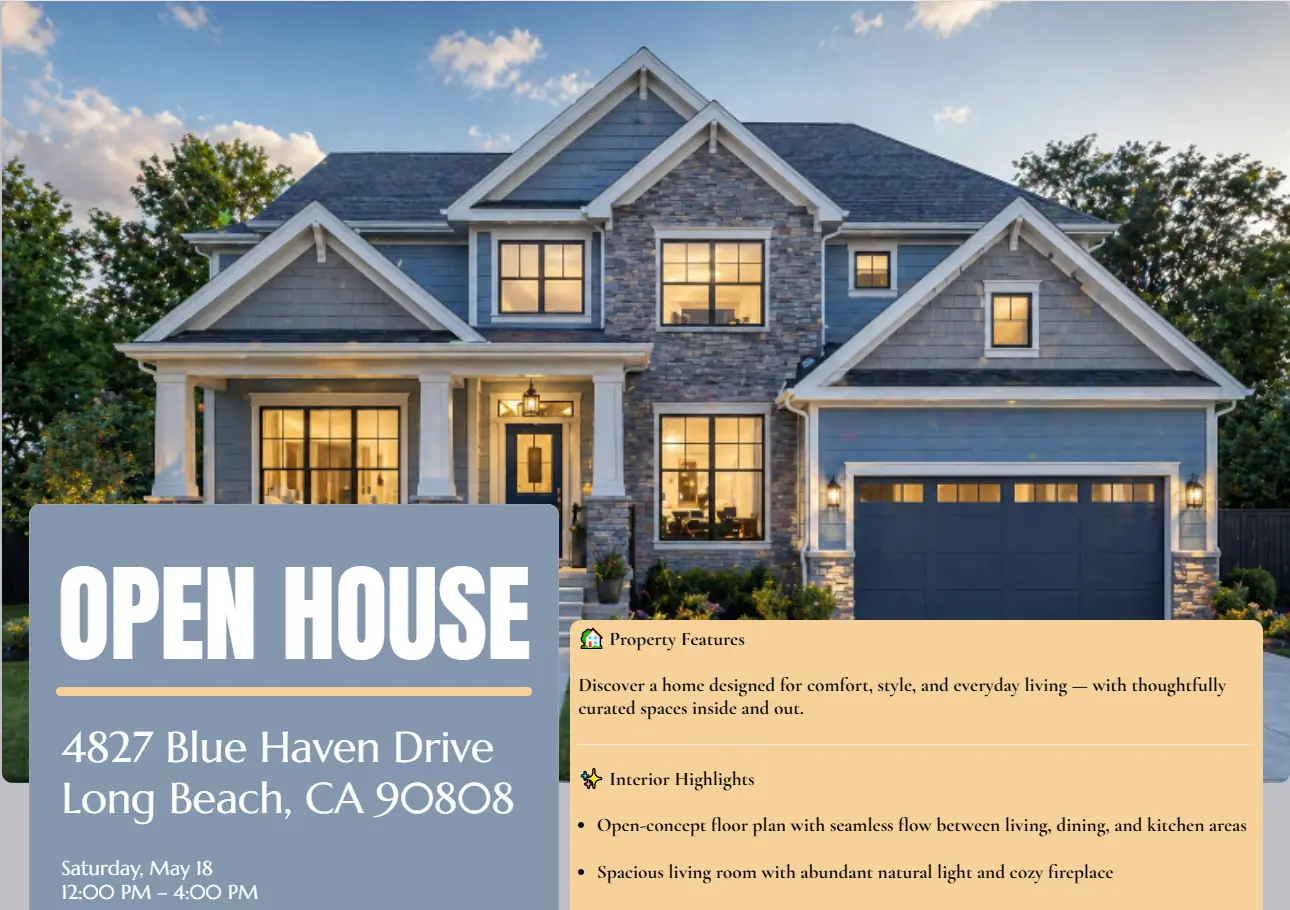
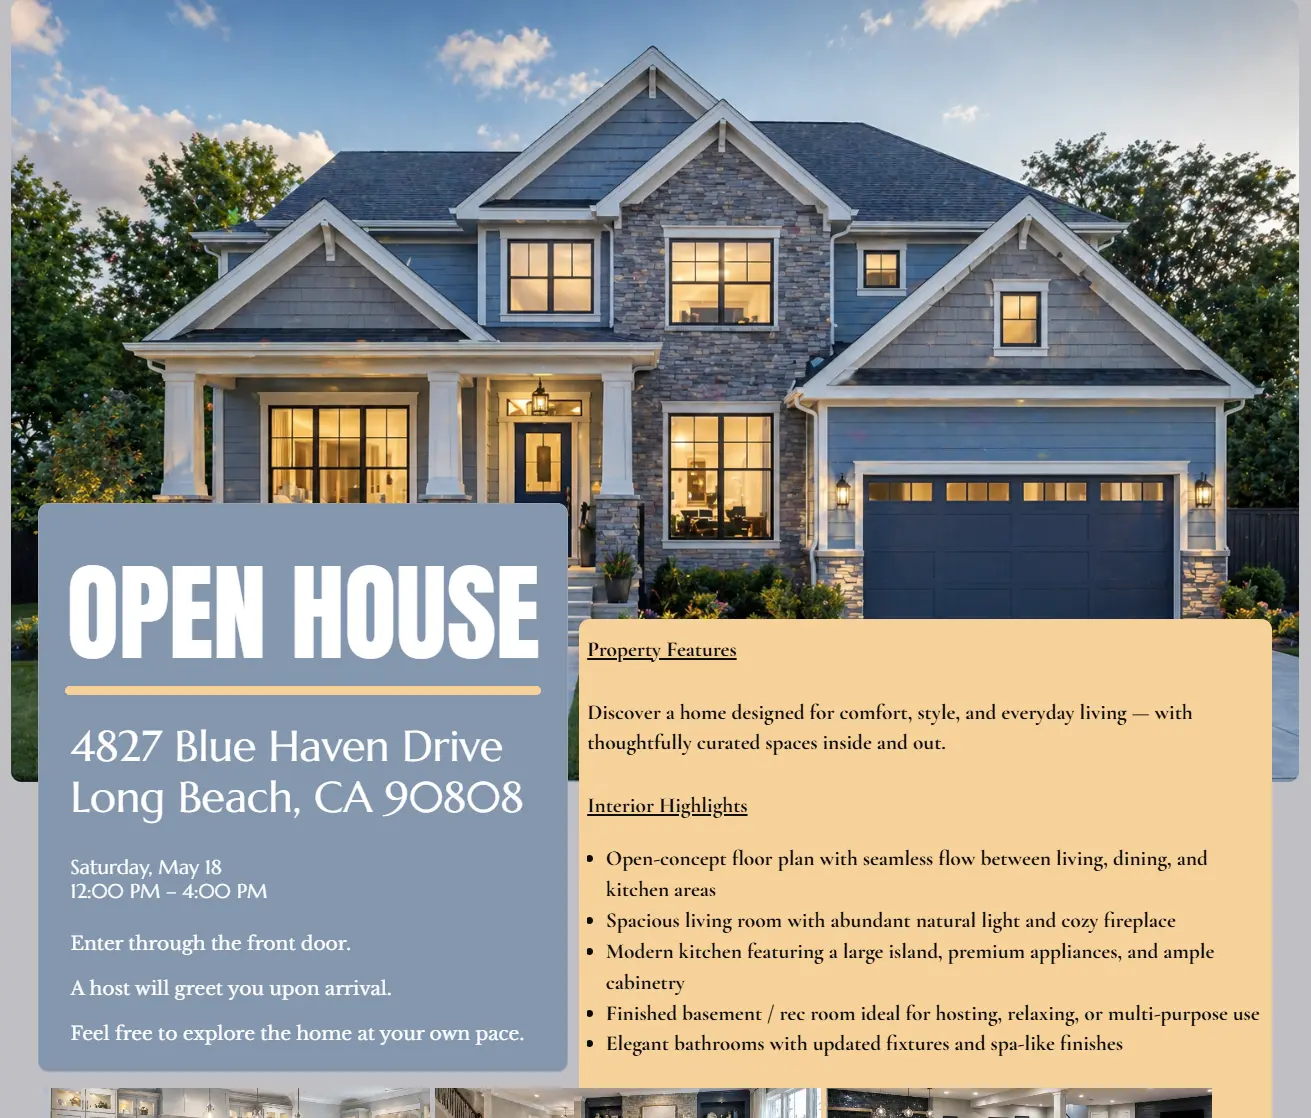
Update Push Commits

diff --git a/components/preview/BlockRenderer.tsx b/components/preview/BlockRenderer.tsx
@@ -17989,35 +17989,37 @@ lineHeight: optionTextStyle.lineHeight,
 {(() => {
   const rendered: React.ReactNode[] = [];
 
-  /*
-   * Heading always belongs at the top of the RSVP form,
-   * regardless of elementOrder.
-   */
-  if (!hidden.has("heading")) {
-    rendered.push(
-      renderElement(
-        "heading",
-      ),
-    );
-  }
+/*
+ * Heading always belongs at the top of the RSVP form,
+ * regardless of elementOrder.
+ */
+if (!hidden.has("heading")) {
+  rendered.push(
+    renderElement("heading"),
+  );
+}
 
-  /*
-   * Image follows the heading when enabled.
-   */
-  if (
-    !hidden.has("image") &&
-    block.data.imageUrl
-  ) {
-    rendered.push(
-      renderElement(
-        "image",
-      ),
-    );
-  }
+/*
+ * Image follows the heading when enabled.
+ */
+if (
+  !hidden.has("image") &&
+  block.data.imageUrl
+) {
+  rendered.push(
+    renderElement("image"),
+  );
+}
 
+/*
+ * Contact Details master visibility.
+ *
+ * If contactDetailsDisplay is false, the entire contact section
+ * is hidden regardless of the individual Name / Email / Address
+ * field settings.
+ */
 const showContactSection =
-  block.data
-    .contactDetailsDisplay !==
+  block.data.contactDetailsDisplay !==
     false &&
   (
     block.data.nameDisplay !==
@@ -18028,39 +18030,56 @@ const showContactSection =
       false
   );
 
-  if (showContactSection) {
-    rendered.push(
-      <div
-        key="contact-details-card"
-        className={`space-y-4 ${sectionClass()}`}
-        style={sectionStyle}
-      >
-                {renderElement("nameLabel")}
+if (showContactSection) {
+  rendered.push(
+    <div
+      key="contact-details-card"
+      className={`space-y-4 ${sectionClass()}`}
+      style={sectionStyle}
+    >
+      {renderElement(
+        "nameLabel",
+      )}
 
-                {block.data.nameDisplay !== false ? (
-                  <div
-  className={[
-    "grid grid-cols-1 gap-3",
-    block.data.lastNameDisplay === false
-      ? "sm:grid-cols-1"
-      : "sm:grid-cols-2",
-  ].join(" ")}
->
-                    {renderElement("firstName")}
-                    {renderElement("lastName")}
-                  </div>
-                ) : null}
+      {block.data.nameDisplay !==
+      false ? (
+        <div
+          className={[
+            "grid grid-cols-1 gap-3",
 
-                {block.data.emailDisplay !== false
-                  ? renderElement("email")
-                  : null}
+            block.data
+              .lastNameDisplay ===
+            false
+              ? "sm:grid-cols-1"
+              : "sm:grid-cols-2",
+          ].join(" ")}
+        >
+          {renderElement(
+            "firstName",
+          )}
 
-                {block.data.addressDisplay !== false
-                  ? renderElement("address")
-                  : null}
-              </div>,
-            );
-          }
+          {renderElement(
+            "lastName",
+          )}
+        </div>
+      ) : null}
+
+      {block.data.emailDisplay !==
+      false
+        ? renderElement(
+            "email",
+          )
+        : null}
+
+      {block.data.addressDisplay !==
+      false
+        ? renderElement(
+            "address",
+          )
+        : null}
+    </div>,
+  );
+}
 
           order.forEach((key) => {
 if (

diff --git a/lib/templates/builder.ts b/lib/templates/builder.ts
@@ -986,16 +986,19 @@ export type RsvpBlock = BaseBlock & {
     guestMin?: number;
     guestMax?: number;
 
-contactLabel?: string;
-firstNamePlaceholder?: string;
-lastNamePlaceholder?: string;
-emailPlaceholder?: string;
-addressPlaceholder?: string;
+    contactLabel?: string;
 
-nameDisplay?: boolean;
-lastNameDisplay?: boolean;
-emailDisplay?: boolean;
-addressDisplay?: boolean;
+    contactDetailsDisplay?: boolean;
+
+    firstNamePlaceholder?: string;
+    lastNamePlaceholder?: string;
+    emailPlaceholder?: string;
+    addressPlaceholder?: string;
+
+    nameDisplay?: boolean;
+    lastNameDisplay?: boolean;
+    emailDisplay?: boolean;
+    addressDisplay?: boolean;
 
     attendingLabel?: string;
     attendingOptions?: string[];
